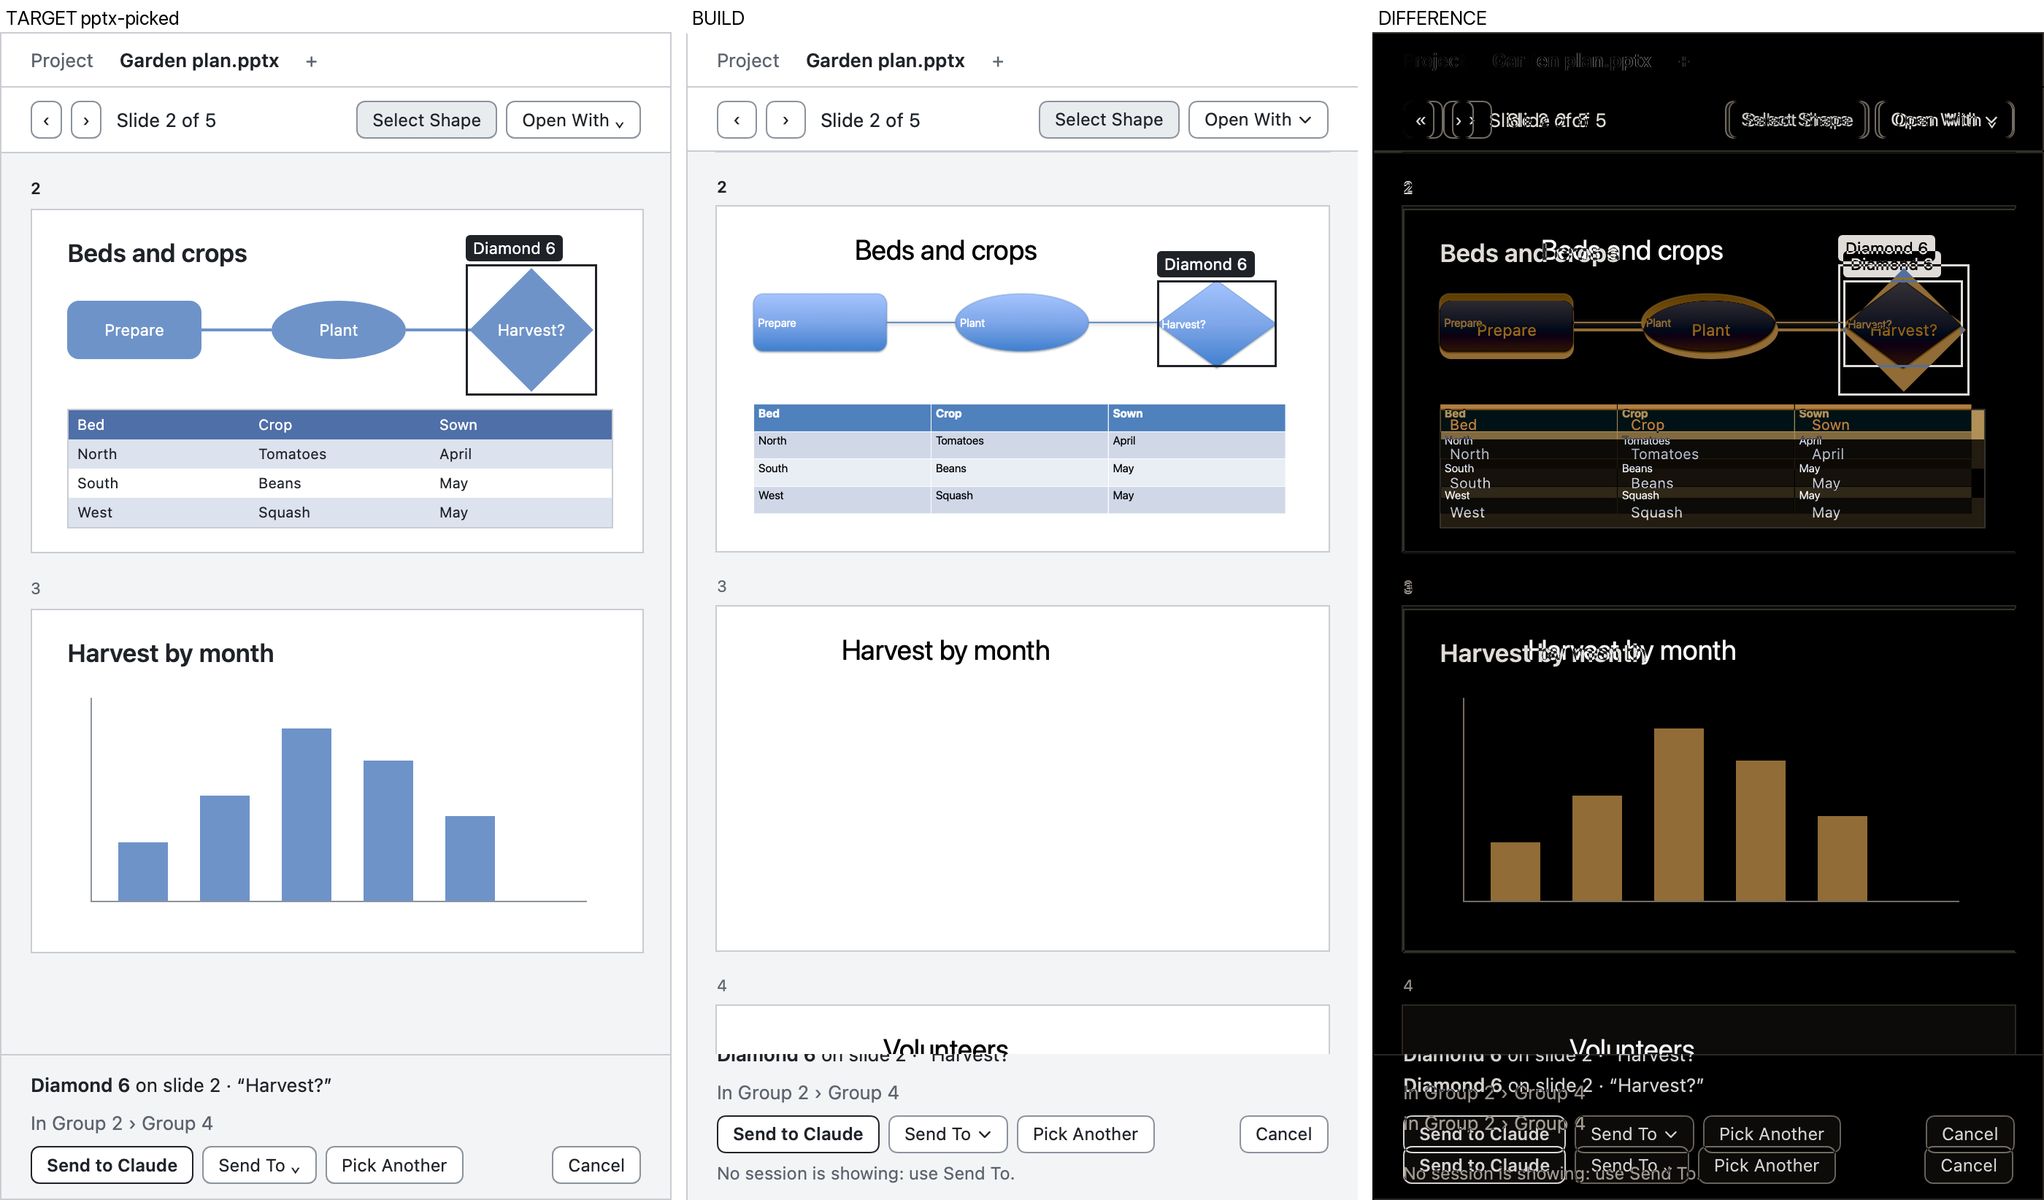
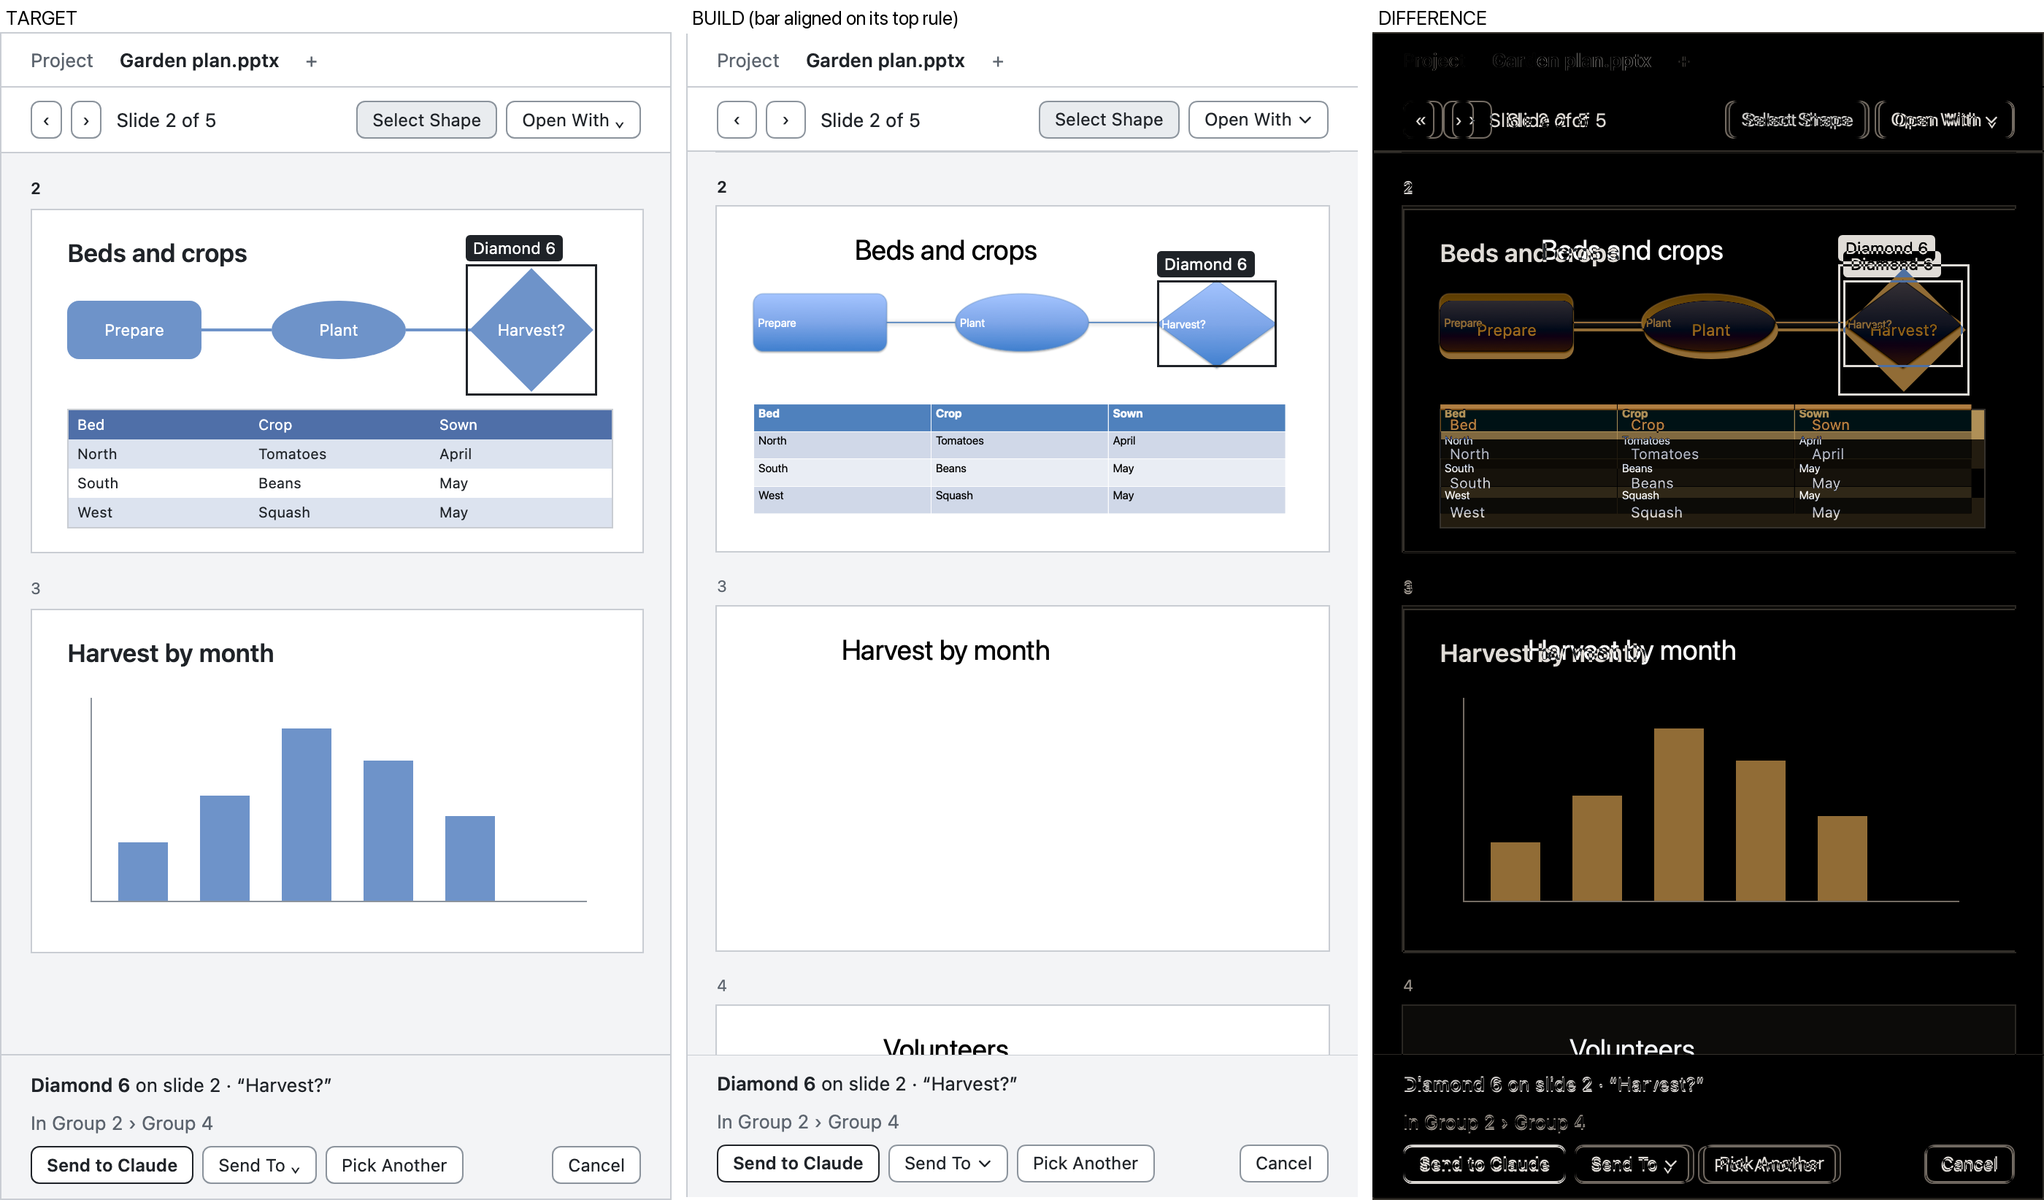
Deck viewer: the picker bar is layout, so no slide draws under it; narrow panes shorten the count and wrap the buttons; compares align on the bar (F-122, Q-68)

diff --git a/Sources/DuoKit/Project/DeckView.swift b/Sources/DuoKit/Project/DeckView.swift
@@ -22,10 +22,9 @@ struct DeckView: View {
                 QuickLookPane(file: file)
             } else {
                 DeckBar(viewer: viewer, path: path, file: file)
-                ZStack(alignment: .bottom) {
-                    DeckWebHost(viewer: viewer)
-                    DeckPickerBar(viewer: viewer)
-                }
+                // The slides end where the picker bar starts: nothing draws under it (board C).
+                DeckWebHost(viewer: viewer)
+                DeckPickerBar(viewer: viewer)
             }
         }
         .onAppear { viewer.open(file) }
@@ -47,8 +46,11 @@ struct DeckBar: View {
                 .buttonStyle(.duo).disabled(viewer.slide <= 1).help("Previous Slide").accessibilityLabel("Previous Slide")
             Button { viewer.go(viewer.slide + 1) } label: { Text("›") }   // action: slide go
                 .buttonStyle(.duo).disabled(viewer.slide >= viewer.count).help("Next Slide").accessibilityLabel("Next Slide")
-            Text(viewer.count > 0 ? "Slide \(viewer.slide) of \(viewer.count)" : "Drawing…")
-                .duoText(.body).foregroundStyle(viewer.count > 0 ? DuoColor.text : DuoColor.text2).padding(.leading, 4)
+            // A pane narrower than the board's 460 shortens the count to "2/5" (stand-in, Q-68).
+            ViewThatFits(in: .horizontal) {
+                count(viewer.count > 0 ? "Slide \(viewer.slide) of \(viewer.count)" : "Drawing…")
+                count(viewer.count > 0 ? "\(viewer.slide)/\(viewer.count)" : "…")
+            }
             Spacer(minLength: 8)
             Button("Select Shape") { viewer.picking ? viewer.stopPicking() : viewer.startPicking() }
                 .buttonStyle(DuoButtonStyle(on: viewer.picking)).disabled(viewer.state != .ready)
@@ -57,6 +59,12 @@ struct DeckBar: View {
         .padding(.horizontal, DuoMetric.noticePaddingX)
         .frame(height: DuoMetric.deckBarHeight)
         .overlay(alignment: .bottom) { DuoColor.rule.frame(height: DuoMetric.borderHairline) }
+    }
+}
+
+extension DeckBar {
+    func count(_ s: String) -> some View {
+        Text(s).duoText(.body).foregroundStyle(viewer.count > 0 ? DuoColor.text : DuoColor.text2).lineLimit(1).fixedSize().padding(.leading, 4)
     }
 }
 
@@ -75,37 +83,23 @@ struct DeckPickerBar: View {
                     if !s.groups.isEmpty {
                         Text("In " + s.groups.joined(separator: " › ")).duoText(.body).foregroundStyle(DuoColor.text2).lineLimit(1)
                     }
-                    HStack(spacing: DuoSpace.gapButtonToButton) {
-                        switch model.sendTarget {
-                        case .success(let t):
-                            Button("Send to Claude") { model.sendPickedElement(to: t.key) }
-                                .buttonStyle(DefaultSheetButtonStyle()).keyboardShortcut(.defaultAction)
-                        case .failure(let why):
-                            Button("Send to Claude") {}.buttonStyle(DefaultSheetButtonStyle()).disabled(true).help(why.reason)
+                    // One row as drawn; two in a pane too narrow for it (stand-in, Q-68).
+                    ViewThatFits(in: .horizontal) {
+                        HStack(spacing: DuoSpace.gapButtonToButton) { send; another; Spacer(minLength: 0); cancel }
+                        VStack(alignment: .leading, spacing: DuoSpace.gapButtonToButton) {
+                            HStack(spacing: DuoSpace.gapButtonToButton) { send }
+                            HStack(spacing: DuoSpace.gapButtonToButton) { another; Spacer(minLength: 0); cancel }
                         }
-                        Menu {
-                            let visible = (try? model.sendTarget.get())?.key
-                            ForEach(model.sendTargets.filter { $0.key != visible }) { t in
-                                Button(t.project.isEmpty ? t.title : "\(t.title) — \(t.project)") { model.sendPickedElement(to: t.key) }
-                            }
-                            Divider()
-                            Button("New Session") { model.sendPickedElement(to: nil) }
-                        } label: {
-                            HStack(spacing: 4) { Text("Send To"); Image(systemName: "chevron.down").font(.system(size: 9, weight: .semibold)) }
-                        }
-                        .menuStyle(.button).buttonStyle(.duo).fixedSize()
-                        Button("Pick Another") { viewer.pickAgain() }.buttonStyle(.duo)
-                        Spacer(minLength: 0)
-                        Button("Cancel") { viewer.stopPicking() }.buttonStyle(.duo).keyboardShortcut(.cancelAction)
                     }
+                    // Only when no session can take it (stand-in, Q-68): with one showing, the bar is as drawn.
                     if case .failure(let why) = model.sendTarget {
                         Text("\(why.reason): use Send To.").duoText(.control).foregroundStyle(DuoColor.text2)
                     }
                 } else {
                     HStack(spacing: DuoSpace.gapButtonToButton) {
-                        Text("Click a shape on a slide to select it. Esc to stop.").duoText(.body)
+                        Text("Click a shape on a slide to select it. Esc to stop.").duoText(.body).fixedSize(horizontal: false, vertical: true)
                         Spacer(minLength: 8)
-                        Button("Cancel") { viewer.stopPicking() }.buttonStyle(.duo).keyboardShortcut(.cancelAction)
+                        cancel
                     }
                 }
             }
@@ -116,6 +110,31 @@ struct DeckPickerBar: View {
             .overlay(alignment: .top) { DuoColor.rule.frame(height: DuoMetric.borderHairline) }
         }
     }
+
+    /// Send to Claude (default) and Send To ⌄.
+    @ViewBuilder private var send: some View {
+        switch model.sendTarget {
+        case .success(let t):
+            Button("Send to Claude") { model.sendPickedElement(to: t.key) }
+                .buttonStyle(DefaultSheetButtonStyle()).keyboardShortcut(.defaultAction)
+        case .failure(let why):
+            Button("Send to Claude") {}.buttonStyle(DefaultSheetButtonStyle()).disabled(true).help(why.reason)
+        }
+        Menu {
+            let visible = (try? model.sendTarget.get())?.key
+            ForEach(model.sendTargets.filter { $0.key != visible }) { t in
+                Button(t.project.isEmpty ? t.title : "\(t.title) — \(t.project)") { model.sendPickedElement(to: t.key) }
+            }
+            Divider()
+            Button("New Session") { model.sendPickedElement(to: nil) }
+        } label: {
+            HStack(spacing: 4) { Text("Send To"); Image(systemName: "chevron.down").font(.system(size: 9, weight: .semibold)) }
+        }
+        .menuStyle(.button).buttonStyle(.duo).fixedSize()
+    }
+
+    private var another: some View { Button("Pick Another") { viewer.pickAgain() }.buttonStyle(.duo) }
+    private var cancel: some View { Button("Cancel") { viewer.stopPicking() }.buttonStyle(.duo).keyboardShortcut(.cancelAction) }
 }
 
 /// The deck's web view in the pane.

diff --git a/Sources/DuoKit/Debug/FixtureHarness.swift b/Sources/DuoKit/Debug/FixtureHarness.swift
@@ -466,6 +466,13 @@ public enum FixtureHarness {
         case "html-pick": if parts.count > 1 { model.htmlViewer.pick(selector: parts[1]) }
         // The PowerPoint viewer (pptx-handoff): slide-go:<n>, slide-picking, slide-hover:<slide>/<id>
         // (the picker's dashed outline, B), slide-pick:<slide>/<id> (a shape picked, C).
+        case "right-width":   // right-width:<pt>: the right pane's width, as if its divider were dragged
+            if let w = Double(parts.count > 1 ? parts[1] : ""), let split = NSApp.windows.lazy.compactMap({ $0.contentView.flatMap(firstSplit) }).first,
+               split.arrangedSubviews.count >= 2 {
+                split.setPosition(split.bounds.width - w - split.dividerThickness, ofDividerAt: split.arrangedSubviews.count - 2)
+                split.adjustSubviews()
+                FileHandle.standardError.write(Data("right-width: \(split.arrangedSubviews.map { Int($0.frame.width) })\n".utf8))
+            } else { FileHandle.standardError.write(Data("right-width: no split\n".utf8)) }
         case "slide-go": model.deckViewer.go(Int(parts.count > 1 ? parts[1] : "1") ?? 1)
         case "slide-picking": model.deckViewer.startPicking()
         case "slide-hover": if parts.count > 1 { model.deckViewer.hover(parts[1]) }
@@ -590,4 +597,11 @@ public enum FixtureHarness {
             exit(failed ? 1 : 0)
         }
     }
+}
+
+/// The window's three-pane split (for `right-width:`).
+@MainActor func firstSplit(_ v: NSView) -> NSSplitView? {
+    if let s = v as? NSSplitView, s.arrangedSubviews.count >= 3 { return s }
+    for c in v.subviews { if let s = firstSplit(c) { return s } }
+    return nil
 }

diff --git a/Sources/DuoKit/Debug/DeckChromeCheck.swift b/Sources/DuoKit/Debug/DeckChromeCheck.swift
@@ -1,0 +1,28 @@
+import AppKit
+import SwiftUI
+
+/// The deck's two bars laid out at a width, for checks (F-121, Q-68): the width they need there,
+/// and optionally a picture. The right pane can be as narrow as `paneMinRight`.
+@MainActor public enum DeckChromeCheck {
+    public static func layout(_ model: AppModel, width: CGFloat, png: URL? = nil) -> CGSize {
+        guard let viewer = model.deckViewerIfLoaded, let url = viewer.url else { return .zero }
+        let view = VStack(spacing: 0) {
+            DeckBar(viewer: viewer, path: url.lastPathComponent, file: url)
+            DuoColor.ground.frame(height: 24)
+            DeckPickerBar(viewer: viewer)
+        }
+        .background(DuoColor.pane)
+        .environment(model)
+        let host = NSHostingController(rootView: view)
+        let need = host.sizeThatFits(in: CGSize(width: width, height: 2000))
+        if let png {
+            host.view.frame = NSRect(x: 0, y: 0, width: width, height: need.height)
+            host.view.layoutSubtreeIfNeeded()
+            if let rep = host.view.bitmapImageRepForCachingDisplay(in: host.view.bounds) {
+                host.view.cacheDisplay(in: host.view.bounds, to: rep)
+                try? rep.representation(using: .png, properties: [:])?.write(to: png)
+            }
+        }
+        return need
+    }
+}

diff --git a/Sources/DuoChecks/main.swift b/Sources/DuoChecks/main.swift
@@ -1453,6 +1453,12 @@ func repoFixture() throws -> Fixture {
         check(duo2("slide", "pick", "2/7").ok && m.deckViewer.pickedShape?.name == "Diamond 6", "`slide pick 2/7` selects the diamond for the user")
         let element = duo2("slide", "element").output
         check(element.contains("slide 2 of 5, the shape \"Diamond 6\" (id 7):") && element.contains("\nscreenshot: "), "`slide element` describes it with a screenshot")
+        // The bars fit the narrowest right pane as well as the board's (Q-68: two rows of buttons there).
+        for w in [DuoMetric.paneProjectRight, DuoMetric.paneMinRight] {
+            let shot = FileManager.default.temporaryDirectory.appending(path: "duo-deck-bars-\(Int(w)).png")
+            let need = DeckChromeCheck.layout(m, width: w, png: shot)
+            check(need.width <= w + 0.5 && need.height > 0, "at \(Int(w)) pt the deck's bar and picker bar fit (\(Int(need.width))×\(Int(need.height)); \(shot.path))")
+        }
         check(!duo2("slide", "pick", "2/99").ok, "a shape that isn't there is refused")
         check(!duo2("doc", "read", "decks/Garden plan.pptx").ok && duo2("doc", "read", "decks/Garden plan.pptx").output.contains("isn't text"),
               "`doc read` never returns a deck's bytes (C-26)")

diff --git a/docs/plan/concerns-and-questions.md b/docs/plan/concerns-and-questions.md
@@ -69,7 +69,7 @@ Status: **open** (needs Geoff or a spike) · **defaulted** (Claude chose a defau
 | Q-65 | **Should Duo's browser tabs grow the basics Google's apps use, or hand them to the default browser?** (F-117) The tabs now load Docs and Sheets without the unsupported banner. They still have no file chooser (Insert › Image › Upload, Drive upload), no downloads (File › Download), and no print. Popups and new windows load in the same tab, losing the doc and the popup's opener. Each is one small UI delegate method; or Duo could open those actions in the default browser. Also: may a session use a scratch Google account to test sign-in (password, 2-step, passkey) and editing? | F-117 | closed | Geoff, 2026-10-06: build all of them (DL-124, built F-118, F-119). No session uses a Google account; Geoff tests signed-in Google himself after the next release. |
 | Q-66 | **The browser's stand-ins (DL-124): are these right, or should they be designed?** (a) **Zoom:** at any zoom but 100% the bar shows the level (`125%`, body text in `text2`) between the address field and Open in Browser, as Safari shows it; a click is Actual Size. (b) **Downloads:** S3-4's notice bar (the editor's) under the browser bar, "Downloaded report.pdf to Downloads." with Open (default), Show in Finder and OK; a failure says "Couldn't download …" with OK. Nothing shows while a download runs. (c) **Menus:** File › Print… ⌘P at the end of File; View › Zoom In ⌘+, Zoom Out ⌘-, Actual Size ⌘0 after Toggle Sidebar, as Safari's View menu has them. | DB-20 (the browser bar) | defaulted | Captures in the build session; built F-118. |
 | Q-67 | **Should a popup's tab look different from the page that opened it?** (DL-124: "marked as opened from its parent".) Today it's placed right after its opener (and the opener's other popups), takes the pane at once, hands the pane back to its opener when it closes, and `duo2 browser tabs` says `(opened from web:…)`. There's no visible mark on the tab itself. Options: leave it; a small `↳` before its title; its opener's name in the tooltip. | DB-20 | defaulted | Built F-119. |
-| Q-68 | **The PowerPoint viewer: not drawn** (DL-125, F-121). Stand-ins: (a) while a deck is drawing, the bar reads `Drawing…` in `text2`, with ‹ › and Select Shape disabled; (b) with no session to send to, the picker bar adds "<why>: use Send To." in `text2`, as HTML pages do; (c) Page Up, Page Down, ← and → move between slides; right-click a slide for Select Shape; (d) a `.pptm` or `.ppsx` opens like a `.pptx`. Keep these? | v1 | open | Captures `build/ui/pptx-*-compare.png`. |
+| Q-68 | **The PowerPoint viewer: not drawn** (DL-125, F-121). Stand-ins: (a) while a deck is drawing, the bar reads `Drawing…` in `text2`, with ‹ › and Select Shape disabled; (b) with no session to send to, the picker bar adds "<why>: use Send To." in `text2`, as HTML pages do; (c) Page Up, Page Down, ← and → move between slides; right-click a slide for Select Shape; (d) a `.pptm` or `.ppsx` opens like a `.pptx`; (e) in a pane narrower than the board's 460 the count reads `2/5` and the picker's buttons take two rows. Keep these? | v1 | open | Captures `build/ui/pptx-*-compare.png`. |
 | Q-71 | **Should closing a tab ask before it ends running work?** (DL-126, F-124.) ⌘W, Close Tab and now the hover × end a working Claude session, or a shell that's running a command, without asking. The surfaces handoff wanted a running shell command to ask first; it was never built. A × under the pointer makes an accidental close likelier than ⌘W did. Options: leave it; a Duo sheet (SheetCenter) for a working session or a shell with a running child process, for ⌘W and the × alike. | DL-126 | open | Geoff chose "same as ⌘W" for now (2026-10-06). |
 
 ## Concerns

diff --git a/docs/plan/findings.md b/docs/plan/findings.md
@@ -1601,4 +1601,8 @@ Spike: `docs/plan/spikes/browser-engine.md`.
 - **Charts stay blank in scripted captures.** The capture window isn't on screen (`trace capture onScreen=false`), so WebKit runs no requestAnimationFrame and ECharts never paints. The spike saw the same in an occluded window (F-102), and charts draw in a window on screen. Slide content is exempt from the comparison, and DuoChecks checks the chart's shape id, not its pixels.
 - **`--then` runs only with a capture.** A long-lived scripted instance (no `--capture-window`) ignores its actions, so the live `duo2` test opened the deck with `duo2 open` and `duo2 doc open`.
 - **The path Claude is given** is relative to the session on screen's folder (`displayPath`), as for HTML elements. With no session open it's absolute, as in the scratch run. Board D's `decks/Garden plan.pptx` is what a session in the project gets.
+- **Charts in a window on screen:** launched with `open -n` (each scratch variable passed with `--env`, so nothing reaches the real support folder), the capture's trace reads `onScreen=true`, and slide 3's chart draws with its axes, bars and labels under the page's policy (`build/ui/pptx-chart-visible.png`).
+- **The picker bar is layout, not overlay** (director's review): the slide list ends at the bar's top edge, so no slide draws under it. The first compare overlaid the bar and cut a fixed 100 pt off the bottom, which hid the bar's first line. The compares now find each bar's top rule in both images and align on it. Bar heights are 97.5 against the board's 99.5 pt (C) and 45.5 against 47.5 (B), within the Duo button's 2 pt.
+- **With a session showing** (a stand-in `claude`, F-87's pattern, no model), the "use Send To" line is gone and the bar is as drawn.
+- **Narrow panes** (`paneMinRight` 360): the count shortens to `2/5`, and the picker's buttons wrap to two rows, Send to Claude and Send To above Pick Another and Cancel. DuoChecks lays both bars out at 460 and 360 and checks they need no more than that (`build/ui/pptx-bars-360.png`, `pptx-bars-460.png`). A live capture can't show it: the capture path puts the panes back at their design widths, so the harness's `right-width:` moves the divider but the picture keeps 460.
 - **A scripted pick** (`slide pick 2/7`, `slide-pick:`) scrolls to the shape's slide first. The page then reports the shape again, so its screenshot is taken where it now is, not where it was before the scroll.

diff --git a/docs/design/system/components/DeckViewer/README.md b/docs/design/system/components/DeckViewer/README.md
@@ -1,6 +1,6 @@
 A PowerPoint deck in the right pane: its slides drawn, the slide on screen, and a picker that sends a shape to Claude.
 
-**Status:** Designed (DL-125, `pptx-handoff/`), built (F-121). Stand-ins: Q-68 (the bar while a deck is drawing, the picker bar's "use Send To" line, keyboard and right-click). **In code:** `Editor/DeckViewer.swift` (the web view and its messages), `Project/DeckView.swift` (DeckBar, DeckPickerBar, the fallback), `Vendor/pptx-renderer/` (the renderer and Duo's page around it).
+**Status:** Designed (DL-125, `pptx-handoff/`), built (F-121). Stand-ins: Q-68 (the bar while a deck is drawing, the picker bar's "use Send To" line, keyboard and right-click, narrow panes). **In code:** `Editor/DeckViewer.swift` (the web view and its messages), `Project/DeckView.swift` (DeckBar, DeckPickerBar, the fallback), `Vendor/pptx-renderer/` (the renderer and Duo's page around it).
 
 **Anatomy:**
 - **The bar** under the tabs, `deckBarHeight` 44 with a `rule` below, padding 0 20: ‹ and › (Duo buttons), **Slide n of N** in `body` (`Drawing…` in `text2` until it's drawn), then at the right **Select Shape** (shown pressed, `selected` fill, while picking) and **Open With ⌄**.
